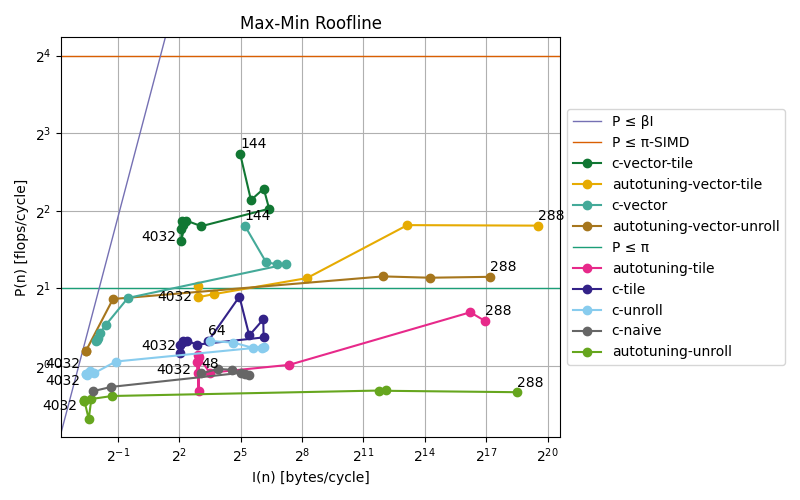
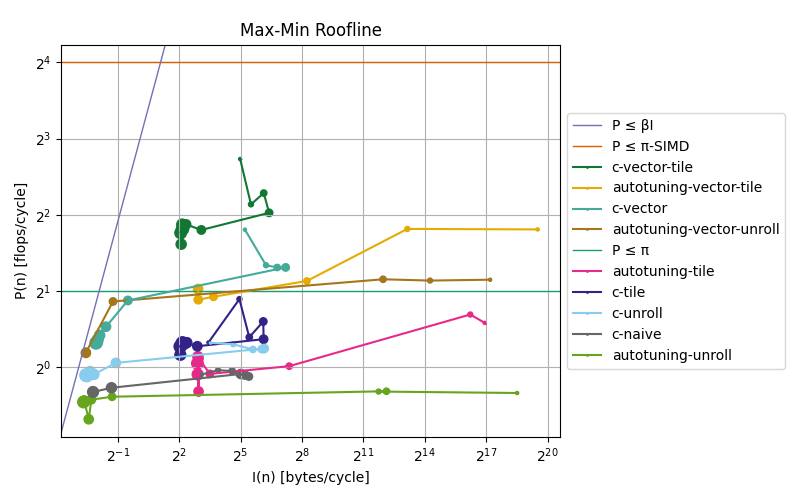
indicate N in the roofline plot with dots sizes instaed of annotations

diff --git a/measurements/roof-plots.py b/measurements/roof-plots.py
@@ -135,7 +135,6 @@ def roofline_plot(
 
     # set up bound visualizations
     _, ax = plt.subplots()
-    ymax = pi_simd * 1.1
 
     # plot performance bounds
     plt.axhline(
@@ -155,11 +154,7 @@ def roofline_plot(
         color=next(ax._get_lines.prop_cycler)["color"],
     )
 
-    perf_max = 0.0
-    min_labels = list()
-    max_labels = list()
     for data_file_path in data_file_list:
-
         # generate label
         data_file = pathlib.Path(data_file_path).stem
         parts = data_file.split("_")
@@ -211,8 +206,6 @@ def roofline_plot(
         # compute performance (flops = 2 * n^3)
         i_list = list()
         p_list = list()
-        min_n = (0, 0, None)
-        max_n = (0, 0, None)
         for (n, c, _, Q) in zip(n_list, cycles_list, runs_list, bytes_list):
             logging.info(f"---- For n = {n} ----")
             if Q == 0:
@@ -226,49 +219,27 @@ def roofline_plot(
             logging.info(f"\t=> P = {round(P, 2)}")
             i_list.append(I)
             p_list.append(P)
-            if min_n[2] is None or n < min_n[2]:
-                min_n = (I, P, n)
-            if max_n[2] is None or n > max_n[2]:
-                max_n = (I, P, n)
 
-        if (
-            len(
-                [
-                    (x, y)
-                    for (x, y) in min_labels
-                    if abs(x - min_n[0]) < 0.3 * min_n[0]
-                    and abs(y - min_n[1]) < 0.2 * min_n[1]
-                ]
-            )
-            == 0
-        ):
-            plt.annotate(
-                int(min_n[2]),
-                xy=(min_n[0], min_n[1]),
-                xytext=(min_n[0], min_n[1] + 0.05 * min_n[1]),
-            )
-            min_labels.append((min_n[0], min_n[1]))
-        if (
-            len(
-                [
-                    (x, y)
-                    for (x, y) in max_labels
-                    if abs(x - max_n[0]) < 0.3 * max_n[0]
-                    and abs(y - max_n[1]) < 0.1 * max_n[1]
-                ]
-            )
-            == 0
-        ):
-            plt.annotate(
-                int(max_n[2]),
-                xy=(max_n[0], max_n[1]),
-                xytext=(max_n[0] - 0.75 * max_n[0], max_n[1] - 0.07 * min_n[1]),
-            )
-            max_labels.append((max_n[0], max_n[1]))
-
-        plt.plot(i_list, p_list, marker="o", label=label)
-
-        perf_max = max(p_list + [perf_max])
+        # ensure scatter points and lines have the same color
+        color = next(ax._get_lines.prop_cycler)["color"]
+        # scatter points such that the same line has different pointsizes
+        plt.scatter(
+            i_list,
+            p_list,
+            marker="o",
+            s=[5 + 8 * i for i in range(len(i_list))],
+            label=label,
+            color=color,
+        )
+        # plot the point such that we have lines connecting the points
+        plt.plot(
+            i_list,
+            p_list,
+            marker="o",
+            markersize=1,
+            label=label,
+            color=color,
+        )
 
     # configure plot
     if bit_packed:
@@ -283,12 +254,17 @@ def roofline_plot(
     plt.legend(loc="center left", bbox_to_anchor=(1, 0.5))
     plt.tight_layout()
 
-    # reorder legend
+    # reorder legend and dont add scatter to the legend
     handles, labels = plt.gca().get_legend_handles_labels()
-    labels, handles = zip(
+    handles, labels = zip(
         *sorted(
-            zip(labels, handles),
-            key=lambda t: t[1]._y[0] if t[1]._y is not None else 100,
+            list(
+                filter(
+                    lambda t: not isinstance(t[0], mpl.collections.PathCollection),
+                    zip(handles, labels),
+                )
+            ),
+            key=lambda t: t[0]._y[0] if t[0]._y is not None else 100,
             reverse=True,
         )
     )
